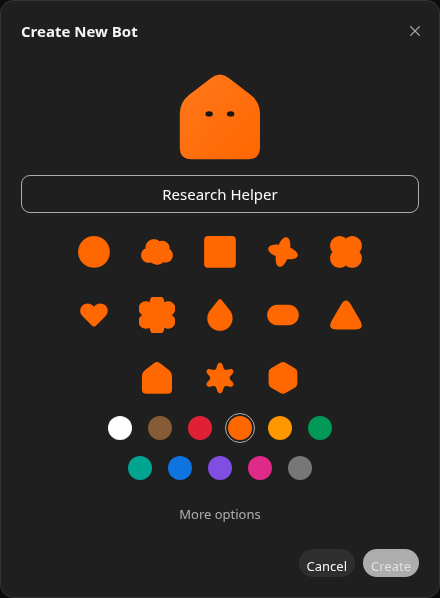
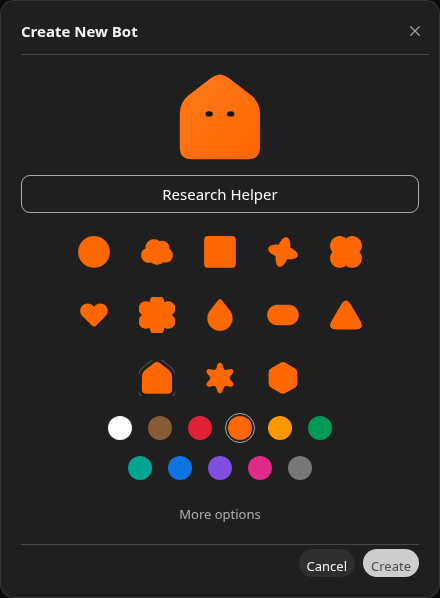
chore(tickets): T30d 返修——T30db（贴纸边 SVG 裁切/Create 遮罩压暗）

Changed region(s): [[0.8273, 0.903, 0.975, 0.9632]]

diff --git a/work/tickets/queue.md b/work/tickets/queue.md
@@ -16,7 +16,7 @@
 | U3 | T23 状态行：0.18 typing 三点 → 0.79.3 状态行（transcript 末行 `working`/`typing` 行，短语引擎：新活动停 ≥800ms 才切、working 5s 轮换、thinking 2.5s、满 60s 加 elapsed、退场 140ms；RE 题 1(d) `Yjn`/`ren`/`tZ`/`sen`）；短语原文取 T20 S2 事实表（T20 没拿到则从 APP i18n 表抽，搜索串写进单）；状态机写成纯函数 + 假时钟单测；活动源复用 `agents.ts activityOf`。自建（rung 5）理由：0.18 无此组件，0.79.3 只有 minified；只搬短语表与时序常数 | T22 合并；T20 S2 | **done**（2026-11-07 经理验收 4624441f；待合并 feat/T23） |
 | U3b | **T29** 删 ToolResultCard 死路径（提议⑤）：`overrides/modules/model.ts` 的 tool-call 投影与 `p5-w3f1/w3f3` 单测随之调整；机械删除，主 agent 可直接按模板写单 | T22 合并 | 计划（与 T23 不同文件，可任意时排） |
 | U4 | **T24** 建 bot 对话框形象区（`done/T24-create-dialog-shapes.md`）：13 形状 picker（`pn` 序 blob/cloud/square/sparkle/clover/heart/flower/teardrop/tablet/wedge/house/star/hex，5/5/3）+ 11 色（含 Black，DOM 序同 T20b）+ 实时预览 + 形状/颜色各自随机初值；**选形不改色**（T20b 实测，旧「选形自动配色」作废——`tf()` 只给季节形状配色）。缺的 7 个形状（square/sparkle/clover/heart/flower/house/star）从 0.79.3 COMMON `Hs` 表与 `Lc` 复制改造，放整模块覆盖 `overrides/modules/character.tsx`（上游零改动）；哈希回落保持 8 形 / 10 色不变。真断点：`toAgentRecord` 写 `shape/color`、上游投影读 `avatarShape/avatarColor`——改键名；持久化 localStorage `pbots.shim.avatars`（同置顶先例，不动 M3）。侧栏/会话头/状态行（T23 已透传）零改动 | T23 合并（状态行头像读 T23 的 activeAgent.avatar*） | **done**（2026-11-07 经理复验通过，含 T24b；待主 agent 合并——分支 png 取 docs 版） |
-| U4b | **T30** 对话框换 0.79.3 版式（`open/T30-create-dialog-0793.md`）：按默认版 Thn——标题「Create New Bot」、预览 96px（`xhn=96`）→ 名字（255/「Name your Bot」/aria「Bot name」/Enter 原生隐式提交/trim 空置灰）→ 形状 → 色板 → 原生 `<details>`「More options」（Q-032 A，预填自动展开）→ `role=alert`；建后 await `session/rename` 再 kickstart，`kickstartPrompt({name,setup})` 构造器（名字进标签内正文；顺带修 `data.ts:550` onboarding setup 拼在闭合标签外的现存 bug）；选中态贴纸描边 / 色板缝环；Black 预览按主题纯色。**经理探针更正**：「Help me create a Bot」卡只在 flag 版 Ahn（`grok_bot_create_a_bot_dialog`+`in_place_share`+`help_create_bot`）里，默认版与参照图都没有——本单不渲染 | T24、T25（均已合并）；Q-032（默认 A） | **done**（2026-11-07 终验 feat/T30 @53928cf2 通过，含 T30b/T30c；暗色三处 token 拆 **T30d** `open/T30d-dark-dialog-tokens.md`，不挡合并。合并前先修截图提交：15:59 版只提交一次。另：撤掉 seen 兜底 market.spec 就红，说明 docs 分支上 launchShell 直连的几个 spec 早就红了，T30 合并后转绿）（此前：返修×2 → T30c；2026-11-07 T30b 终验 @9fd43f2b 不过，任务 C 重规划：`open/T30c-create-dialog-0793-final.md`，8 条收尾——③ 判等/描边/蓝圈/暗 Create/暗分隔线/截图/seen 证据/回执原样输出）（此前：终验 @06c331e3 不过 → **T30b** `open/T30b-create-dialog-0793-fix.md`：③ 空测试/版式三处/暗色 Black/notice 覆盖/Enter 组字/回执缺项；同分支续做） |
+| U4b | **T30** 对话框换 0.79.3 版式（`open/T30-create-dialog-0793.md`）：按默认版 Thn——标题「Create New Bot」、预览 96px（`xhn=96`）→ 名字（255/「Name your Bot」/aria「Bot name」/Enter 原生隐式提交/trim 空置灰）→ 形状 → 色板 → 原生 `<details>`「More options」（Q-032 A，预填自动展开）→ `role=alert`；建后 await `session/rename` 再 kickstart，`kickstartPrompt({name,setup})` 构造器（名字进标签内正文；顺带修 `data.ts:550` onboarding setup 拼在闭合标签外的现存 bug）；选中态贴纸描边 / 色板缝环；Black 预览按主题纯色。**经理探针更正**：「Help me create a Bot」卡只在 flag 版 Ahn（`grok_bot_create_a_bot_dialog`+`in_place_share`+`help_create_bot`）里，默认版与参照图都没有——本单不渲染 | T24、T25（均已合并）；Q-032（默认 A） | **done**（2026-11-07 终验 feat/T30 @53928cf2 通过，含 T30b/T30c；暗色三处 token 拆 **T30d** `open/T30d-dark-dialog-tokens.md`，不挡合并；T30d 终验 @0a47fb46 不过 → **T30db**（贴纸环被裁断 + 暗 Create 发灰）。合并前先修截图提交：15:59 版只提交一次。另：撤掉 seen 兜底 market.spec 就红，说明 docs 分支上 launchShell 直连的几个 spec 早就红了，T30 合并后转绿）（此前：返修×2 → T30c；2026-11-07 T30b 终验 @9fd43f2b 不过，任务 C 重规划：`open/T30c-create-dialog-0793-final.md`，8 条收尾——③ 判等/描边/蓝圈/暗 Create/暗分隔线/截图/seen 证据/回执原样输出）（此前：终验 @06c331e3 不过 → **T30b** `open/T30b-create-dialog-0793-fix.md`：③ 空测试/版式三处/暗色 Black/notice 覆盖/Enter 组字/回执缺项；同分支续做） |
 | U5 | T26 onboarding 开闸（2026-11-07 与 kickstart 互换编号，原 T25；**T25 合并后开**——0.79.3 onboarding 主 bot 走完引导才介绍（`markOnboardingSeen().then(()=>kickstartAwaitingFirstMessage)`）：建时传 T25 的 `kickstart:false`，hand-off 后调暴露出来的 kickstart）：shim `onboarding.getSeen/setSeen` 接真实持久（首次启动 false、走完或 Skip 写 true；设置里「重看引导」若 0.18 有入口则接上）；onboarding create 步的 `createAgent` 走我们的建 bot 路径并带上 color/shape（onboarding `model.ts:260` 传 `avatarShape/avatarColor`，shim `createAgent` 现在有 chooser 时忽略 args——写进 T24 的 avatars store 即可）；先跑通 0.18 已有六步，与 T20 S5 并排对照，0.79.3 多出的 attribution/role/connect 步与 42 模板目录**另立 T28** | T24（createAgent 带形象） | **done**（2026-11-07 A 段+T26b 合并验收通过 @145c784d，待合并；回执拆出的「T26c」= 本表 T28，不另立号） |
 | U5b | **T26b** onboarding A 段返修（`done/T26b-onboarding-fixes.md`）：landing 补 `.sand-onboarding` 覆盖层根（现落视口外）；launchProduct 置 seen 后 reload 消竞态；create 步直建 setMain 防双 main；介绍挪到 seen 之后（0.79.3 `markOnboardingSeen().then(kickstart)`）；e2e ④ 走完六步 | T26 | **done**（2026-11-07 验收通过，随 T26 合并） |
 | U5c | T32 onboarding B 段：3 演示 bot 编舞（0.18 scene.ts 是否够用）、beat 轴逐帧对照、T20 S5 onboarding 亮暗参照全套（含引导期间侧栏是否被覆盖；create 步版式现散——色板/角色重叠，见 ours/onboarding-create.light.png）；演示 bot 走 T25 `kickstart:false`。（2026-11-07 T28 立项注：Q-033 若按 A 落地，create 步退出 walk，「create 步版式」这一项作废；view 已复制进覆盖层，编舞改动做在覆盖层上，上游 scene.ts 仍不动） | T26 done、T20 S5、T28 | 计划 |

diff --git a/work/tickets/open/T30db-sticker-clip-create-wash.md b/work/tickets/open/T30db-sticker-clip-create-wash.md
@@ -1,0 +1,27 @@
+# T30db：T30d 返修——贴纸边被 viewBox 裁断、暗色 Create 发灰
+
+> 开单：manager (Opus 5.5) | 日期：2026-11-07 | 施工：main (GLM 5.3)
+> 来源：T30d 终验（feat/T30d HEAD 0a47fb46）不通过，失败计数 1
+> 分支 / 作业目录：继续 feat/T30d @ /tmp/bot-wt/T30d
+> claimed：
+> accepted：
+
+## 终验已确认的（不用再证）
+- build 0；0793 + character 12 passed；check diff=0；pgrep 0。
+- 分隔线 ✓：经理在 HEAD 上重拍 dark-named，沿 x=220 竖直取像素，头部 y54 = 71、底栏 y544 = 71，底色是 31，差 40。
+- 回执里底栏写的是「y512–515」，这个坐标不对（那里不是分隔线），以经理测的 y544 为准。
+
+## 要修的
+1. **贴纸边被裁断（T30d 新引入的回归，亮暗两色都有）**。灰线描边宽 57，向 path 外伸出 28.5 个单位，但 `ShapeGlyph` 的 viewBox 只往外留了 15（`-15 -15 259 259`），SVG 默认 `overflow:hidden`，所以外环在尖顶和左右下角被切掉，看起来是一段一段的（经理放大了 light-named 和 dark-named 的 house 看过）。ref 的外环是连续的。最短的修法：给 svg 加 `overflow="visible"`。形状按钮 57px、图形 36px，四周有空间。
+   - 证据：放大选中的 house，贴出从尖顶到底角外环都连续的截图，或者沿外环取一圈像素贴出来，不能有断点。
+2. **暗色 Create 发灰**。ours 现在按钮底色是 205、文字大约 46–95；ref 的 dark-named 是底色约 245、文字约 18（经理裁了 ref 的按钮区看过）。按 alpha 反算，白底被压到 205，像是按钮上整体还叠着一层约 0.78 的 opacity 或者遮罩。用 `getComputedStyle` 查按钮本身和它的伪元素，看 `opacity`、`filter`、`::before` 有没有设东西，找到后只在对话框这一个按钮上覆盖掉。
+   - 证据：按钮底色 ≥ 235，文字最暗处 ≤ 40，两个数都贴出来。
+
+## 边界
+只动 `new-bot-dialog.tsx` 的 `ShapeGlyph`（svg 属性），和 `p5-57.css` 里 T30d 那一段。
+
+## 验收
+1. 前置 build，退出码 0
+2. `test:e2e tests/e2e/create-dialog-0793.spec.ts tests/e2e/create-dialog-character.spec.ts` → 12 passed；`check` → diff=0
+3. `PBOTS_SHOT=1` 重拍。回执贴第 1、2 条的像素或放大截图，经理会自己重拍核对
+4. pgrep 输出为空

diff --git a/work/tickets/doing/T30d-dark-dialog-tokens.md b/work/tickets/doing/T30d-dark-dialog-tokens.md
@@ -4,7 +4,8 @@
 > 来源：T30c 终验（feat/T30 HEAD 53928cf2）。T30 已经第三轮，按任务 C 把暗色这几项拆出来单做，不再挡 T30 合并
 > 分支 / 作业目录：feat/T30d @ /tmp/bot-wt/T30d，起点是 T30 合并后的 docs 分支
 > claimed：2026-11-07 main (GLM 5.3) @ feat/T30d
-> accepted：
+> accepted：（2026-11-07 终验 @0a47fb46 不通过：分隔线 ✓；贴纸外环被 viewBox 裁断——描边 57 伸出 28.5 > 留边 15，是本单引入的回归；暗色 Create 底色 205、文字发灰，ref 是 245/18 → 返修单 `open/T30db-sticker-clip-create-wash.md`）
+> 失败计数：1
 
 ## 目标
 暗色下的新建对话框要和 `ref/create-dialog.dark-named.png` 对上：Create 可用时是白底黑字的 pill，头部和底栏有分隔线，选中的形状有能看见的贴纸边。
